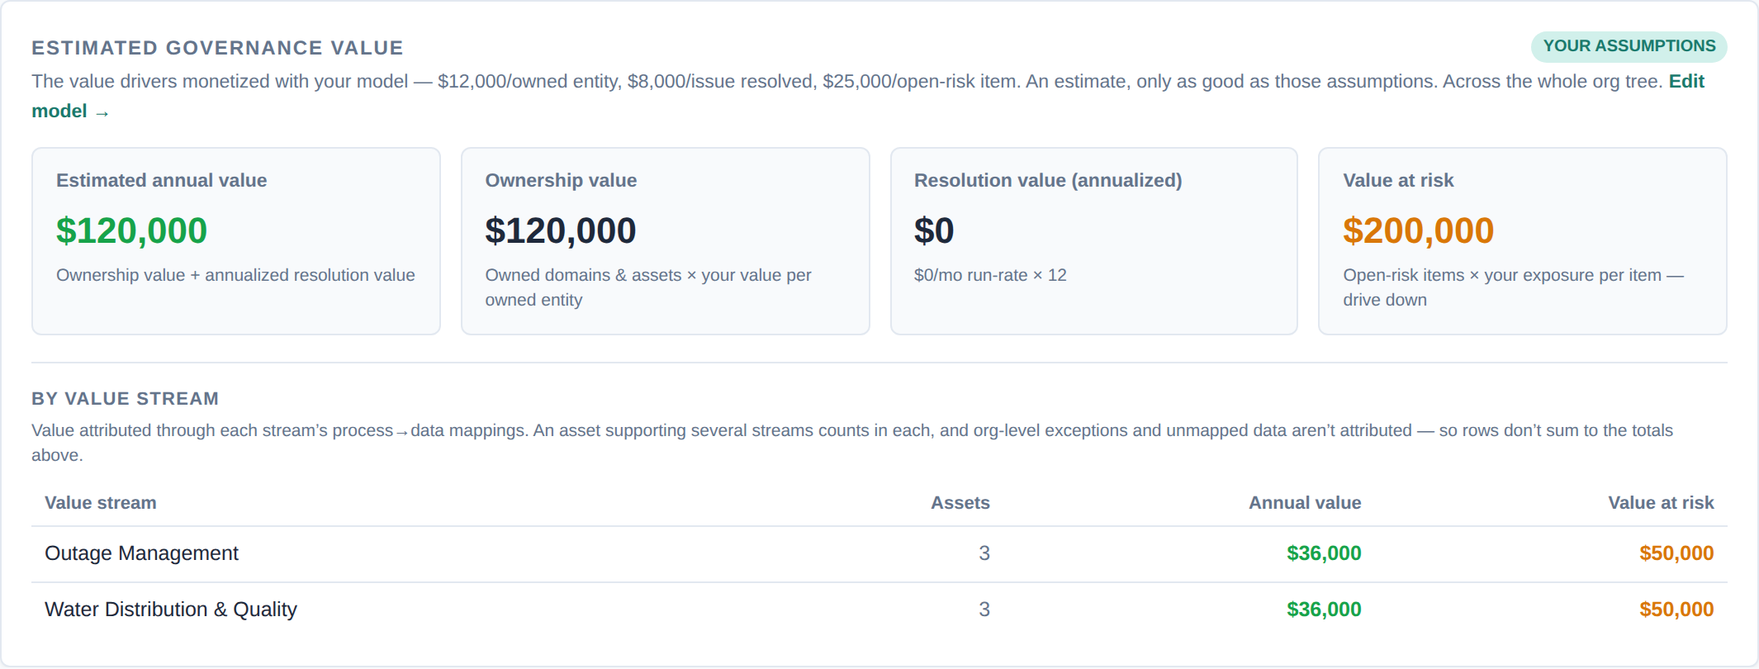
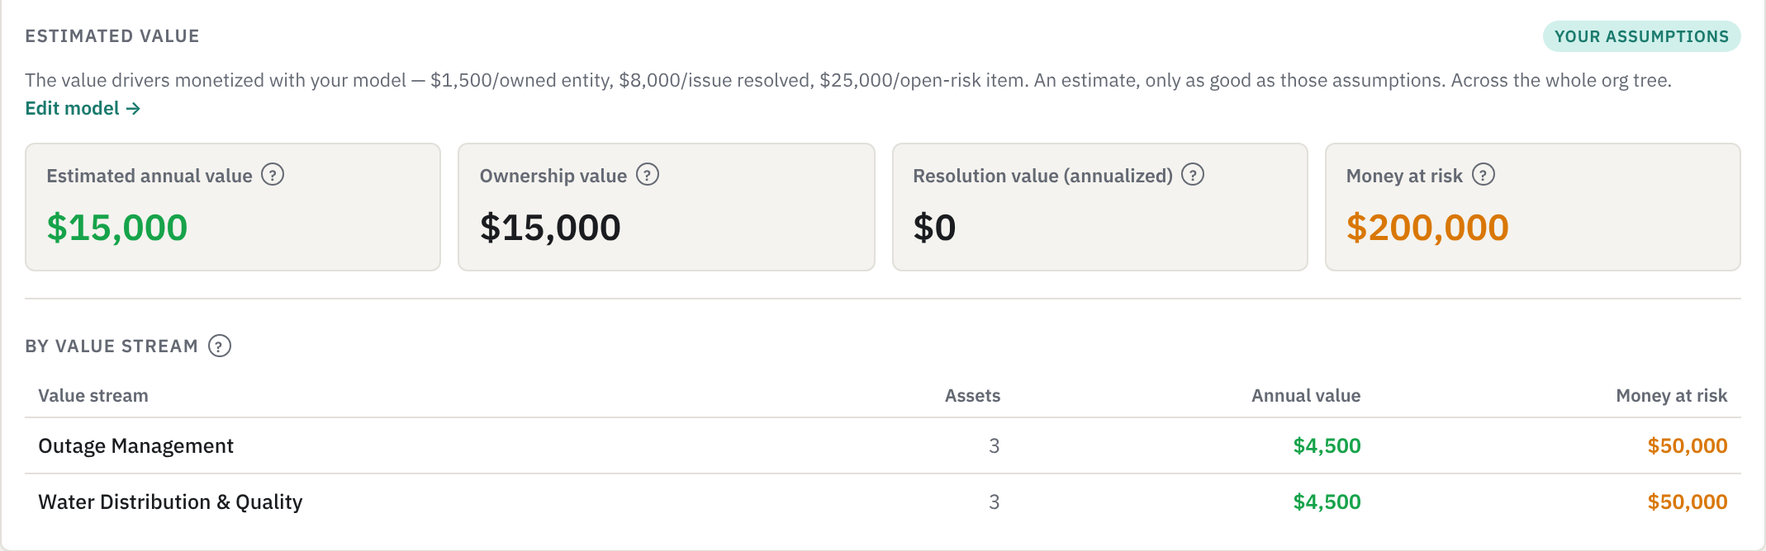
docs: refresh screen prints and stale prose to current state
Pre-flight for an evaluation build: bring the docs, guides and in-app
help screen prints up to date with the current app.

Screen prints (packages/backend/src/docs/images/) — regenerated 7 that
had drifted, mostly from the sidebar restructure plus the Dashboard,
Settings and Council redesigns:
- dashboard-hero: greeting header + Program-health pulse strip + "Needs
  you" queue (was the old My Dashboard / Needs Attention / Tasks / Issues
  layout).
- settings-data-tab: the left nav-rail + index-row Data section (was the
  old four-tab bar).
- data-assets-list, process-catalog-tree, council-scorecard: current UI
  + current sidebar.
- scorecard-value-drivers / scorecard-value: the two ROI cards merged
  into one "Governance value" card; re-clipped each band, and the driver
  tile is now "Open risk items" (not "Value at risk").
Kept as-is: connectors-panel, connector-pairing, chat-panel (element
clips of unchanged components), and the three animated GIFs.

HELP.md prose realigned to the screen prints: rewrote the Dashboard
section for the board-A3 layout (greeting, Program health, Needs you,
Focus mode — the old customizable-section/Customize model is gone),
fixed the value-driver label, the estimated-value figures/label, the
Council captions, the Settings nav-rail description, and moved the
Scorecard-targets pointer to Governance → Foundation → Targets.

Doc-prose staleness (verified against code):
- SECURITY.md: 6-role list → 5 roles (EDITOR merged PROCESS_OWNER +
[…]

diff --git a/e2e/smoke.spec.ts b/e2e/smoke.spec.ts
@@ -83,7 +83,7 @@ test.describe('Procela smoke', () => {
   });
 
   test('every top-level page renders without errors', async ({ page }) => {
-    // Walking 23 routes serially can exceed the default 30s timeout
+    // Walking 25 routes serially can exceed the default 30s timeout
     // on a dev backend with accumulated state — each page's data
     // fetch takes longer when the persistence layer has more rows.
     // Give this test the room it needs; the per-page work is still

diff --git a/packages/backend/src/docs/HELP.md b/packages/backend/src/docs/HELP.md
@@ -39,30 +39,27 @@ Settings sits at the bottom of the sidebar. Help lives only in the top bar (next
 
 ## 3. Dashboard
 
-![The you-scoped Dashboard on the Tidewater Utilities fixture: a full-width "My Dashboard" row split into a "Needs Attention" triage queue (overdue tasks, critical issues) beside a 14-day "Schedule" look-ahead, with the half-width "Tasks" and "Issues" sections beneath — each list header carrying its open count and an inline weekly-trend sparkline.](images/dashboard-hero.png)
+![The you-scoped Dashboard for Susan Chen on the Tidewater Utilities fixture: a personal greeting header (role · org · date), a "Program health" pulse strip (Open gaps, Classified, Ownership coverage, Program maturity), then the "Needs you" action queue — the most urgent tasks and issues with All / Tasks / Issues tabs and an inline weekly-trend sparkline — beside a portfolio rail (next meeting, Portfolio Health).](images/dashboard-hero.png)
 
 The dashboard is personalized to your login — it shows *your* work and the health of the domains and assets *you* own or steward, not an org-wide rollup. You must have a People record with your email to see personalized data.
 
-Everything on the page is a customizable **section** (see Customize below). The default set, top to bottom:
+The page (redesign board A3) leads with a **personal greeting** (time of day + your first name) and a meta line of your role · active org · today's date. Three header actions sit on the right: **Run Wizard** (the one "do" action kept from the old quick-action bar — AI-gated), the **All / Governed** portfolio lens, and a **Focus** toggle. Top to bottom:
 
-- **My Dashboard** — your personal act-now view, a two-column row. **Needs Attention** is the triage queue — overdue tasks, critical issues, overdue policy reviews, and low-health domains you own — each capped, with a "+N more →" link when the queue runs long. **Schedule** is the 14-day look-ahead — calendar events plus upcoming task and review due dates on one time axis, bucketed **Today / This week / Later**. Every row links through to where it's handled.
-- **Tasks** — the top governance tasks assigned to you. The header shows the open count, an **overdue** chip when any are late, and an inline **weekly-trend sparkline** with a ▲/▼ delta (down is green — fewer open tasks is good), then a *View all* link into Governance Work (Tasks tab). This sparkline is the former standalone "Trends" card, folded into the list header — the card only restated these counts.
-- **Issues** — the top governance issues assigned to you, same shape as Tasks: open count, an inline weekly-trend sparkline, and a *View all* link into the Issues tab.
-- **Domains** — the data domains you own or steward, as a card grid; links to the Data Domains page.
-- **Portfolio Health** — the tier mix and health of the assets in the domains you own or steward: a **tier-mix donut** (Certified / Managed / Uncertified) beside a **health gauge**, coloured green / amber / red on the same 80 / 50 thresholds used everywhere else. The you-scoped replacement for the old org-wide Governance Posture widget.
-- **Coverage** — the mapping / governance / ownership share of *your* assets, so your own coverage gaps read at a glance.
+- **Program health** — an organization-wide pulse strip of four tiles: **Open gaps** (with a mapped / ungoverned / orphaned breakdown), **Classified** (share of assets with a sensitivity, against the target), **Ownership coverage** (share of domains + assets with a named owner), and **Program maturity** (the latest council-scorecard maturity score, or a prompt to capture the first assessment). An "Open council scorecard →" link sits beside it. This strip is org-wide; the lens below narrows only your portfolio.
+- **Needs you** — your ranked action queue in the main column: the most urgent tasks and issues you own, "most urgent first", with **All / Tasks / Issues** tabs, an inline **weekly-trend sparkline** with a ▲/▼ delta (down is green — fewer open items is good), and a per-row **Open / Start** button that jumps to where the item is handled.
+- **Domains you own or steward** — a main-column card grid of your data domains; links to the Data Domains page. (Hidden in Focus mode.)
+- **Ask Procela** — suggested questions into the AI assistant (AI-gated).
+- A right-hand **portfolio rail** (hidden in Focus mode): **Next meeting** (the next council meeting from the Calendar), **Portfolio Health** (a tier-mix donut + health gauge for the assets in the domains you own or steward, on the same 80 / 50 thresholds used everywhere), and **Coverage** (the mapping / governance / ownership share of *your* assets).
 
-The old org-wide widgets — the Overview KPI row, Governance Posture, org-wide Trends, Governance Gaps, Catalog Shape, Program Maturity, Skill Gaps, Recent Activity, and the Quick Actions bar — were dropped in favour of this you-scoped view. Those org-wide reads still live on their own pages (Insights → Enterprise View, Gap Detection, the Council page, and the Process ↔ Data Map). The one "do" action kept from the old Quick Actions bar is **Run Wizard**, now a primary pill in the page header (when AI features are on).
+The old org-wide widgets — the Overview KPI row, Governance Posture, Catalog Shape, Skill Gaps, Recent Activity, and the Quick Actions bar — were dropped in favour of this you-scoped view; those org-wide reads live on their own pages (Insights → Enterprise View, Gap Detection, the Council page, and the Process ↔ Data Map).
 
-**All / Governed lens** — when a governance program scope is defined (Governance → Foundation), the header toggle narrows the Portfolio Health, Coverage, and Domains sections to the domains and assets the program governs, with a "Governed scope · v{N} · changed {date}" note. With no scope defined it's a safe no-op showing everything you own or steward.
-
-Click **Customize** to control the layout. For each section you can reorder it (up / down arrows), set its width — **Half** (packs two sections side-by-side, so the page stays tight with less scrolling) or **Full** (its own row) — and show or hide it. The default opens on an importance order (your act-now items first, then Tasks | Issues, then Domains | Portfolio Health, then Coverage), and the lower sections default to Half so they pair two-up. Your layout is saved automatically per browser (scoped to your login); use **Reset to Default** to return to the shipped arrangement.
+**Focus mode** — the header toggle collapses the portfolio rail *and* the domains grid so the "Needs you" queue is the whole page, for a heads-down working view. **All / Governed lens** — when a governance program scope is defined (Governance → Foundation), the toggle narrows the portfolio sections (Portfolio Health, Coverage, Domains) to the domains and assets the program governs, with a "Governed scope · v{N} · changed {date}" note; with no scope defined it's a safe no-op showing everything you own or steward.
 
 ## 4. Processes
 
 ### Process Catalog
 
-![Process Catalog in its two-pane master-detail layout: a compact navigation tree on the left — filter pills (All levels / Active / Draft / Incomplete / Mine), level badges, and a per-row status dot plus required-fields completeness marker — with the selected node's record open in the detail pane on the right. Here the "Outage Triage" sub-process is selected, its detail showing an "Active, but 2 required fields are missing" banner above its fields and the rolled-up activity-flow board.](images/process-catalog-tree.png)
+![Process Catalog in its two-pane master-detail layout: a compact navigation tree on the left — filter pills (All levels / Active / Draft / Incomplete / Mine), level-count chips, and a per-row status dot plus required-fields completeness marker — with the selected node's record open in the detail pane on the right. Here the "Outage Management" value stream is selected, its detail showing an "All 6 required fields complete" banner above its Purpose and Owner fields; a "Needs attention" summary and a Legend sit under the tree.](images/process-catalog-tree.png)
 
 - Hierarchical process catalog: Value Stream → Process → Activity (with optional Sub-Process and Task levels for detail).
 - Two-pane master-detail layout. A compact **navigation tree on the left** lists the hierarchy — each row shows a level badge, the name + code, a status dot, and a required-fields completeness read-out (`✓` when complete, `N/M` otherwise, an amber ⚠ when a node is Active but still incomplete). **Click a row to open its record in the detail pane on the right**, where all of its fields, roll-up panels, and the status / actions bar live. Drag a row by its handle to reorder or re-parent. The left nav stays clean (badge, name, status, completeness); everything you *do* to a node happens in the detail pane.
@@ -124,7 +121,7 @@ The single home for every activity ↔ target link in the catalog, at **Insights
 
 ### Data Assets
 
-![Data Assets list showing several rows with governance-tier badges (Bronze / Silver / Gold), health scores, and at least one row carrying a green "Synced N min ago" chip next to its name so the connector-sourced freshness signal is visible.](images/data-assets-list.png)
+![Data Assets registry: a Data Domains tree on the left, a "Needs attention" card row (Unmapped, No owner, Untrusted, No domain, Sensitivity not set), classification and origin filter pills, then the asset table with columns for System, Sensitivity, Mapping (Mapped / Unmapped), governance Tier (Managed / Untrusted), and Owner. Connector-sourced rows also show a green "Synced N min ago" freshness chip next to the name once a sync source is paired.](images/data-assets-list.png)
 
 - Register data assets in business terms. Each asset has a Trust Level (Untrusted / Managed / Trusted — DAMA mode calls these Uncertified / Managed / Certified).
 - Sidebar filter by **Data Classification** — the business *kind* of data: Master, Reference, Transactional, Analytical, Metadata (distinct from the SQL data type, and from the Sensitivity axis below).
@@ -399,19 +396,19 @@ Skills drive four cross-page workflows:
 
 - **The governance council's home at Insights → Review → Council.** One page now carries both the pre-meeting **briefing** (who sits on the council, when they next meet) and the monthly **scorecard** (the point-in-time division report card with saved snapshots) — the former Council Dashboard and Council Scorecard were merged, so there's one screen a council opens before *and* during a meeting. The old `/council-dashboard` and `/council-scorecard` links redirect here.
 
-![The merged Council page for Tidewater Utilities: a slim briefing bar (council roster · next meeting) across the top, then a "Scorecard" heading with a status pill above the four-measure per-division table (Tier-1 coverage, Classification, Open issues, Exceptions). Three divisions with nothing to assess show a neutral grey "No data" status; the enterprise rollup row shows "Behind". Page-header actions carry a Print icon, an All / Governed lens, a Versions ▾ menu, and Save snapshot.](images/council-scorecard.png)
+![The merged Council page for Tidewater Utilities: a slim briefing bar (council roster · next meeting) across the top, a "Verdict" card (here "Behind") beside a "Needs a decision" panel, then the "Scorecard" per-division table with columns for Domains (governed · context), Tier-1 coverage, Classification, Open issues, Exceptions, and Status. Three divisions with nothing to assess show a neutral grey "No data" status; the enterprise rollup row shows "Behind". Page-header actions carry a Print icon, an All entities / Governed only lens, a Saved snapshots ▾ menu, and Save snapshot.](images/council-scorecard.png)
 
 - **The briefing bar** across the top is a live summary composed from the surfaces that own each part, storing nothing of its own: **the council** — the roster and seats (Chair, Vice-chair, Secretary, Member, Advisor) pulled from the governance group, with a Manage → link into Governance → Groups; and **next meeting** — the next scheduled council meeting, how many days away, its cadence, and the expected attendees, from the Calendar.
 - **The four measures are auto-derived from live data:** Tier-1 coverage (share of Tier-1 domains with a named owner), Classification (share of assets with a sensitivity classification), Open issues over 30 days, and Exceptions past expiry. Each division's row is computed over its own subtree; the **Enterprise** row is a true rollup — computed across the parent's whole subtree, not an average of the divisions. Status per row (On track / Behind / At risk) is derived from the measures against their targets; a division with nothing to assess yet — no governed domains, no classified assets, and no open issues or exceptions — reads a neutral **No data** rather than being flagged Behind.
-- **Targets are configurable per tenant.** The four thresholds — coverage %, classification %, max aged open issues, max past-expiry exceptions, and the open-issue age in days — ship with sensible defaults (80 / 70 / 0 / 0 / 30) and can be tuned by an org admin under **Settings → Data → Council Scorecard targets**. A change re-derives the live scorecard on its next load; already-saved snapshots keep the targets they were frozen with. Set on a company org, the bar applies to its divisions.
+- **Targets are configurable per tenant.** The four thresholds — coverage %, classification %, max aged open issues, max past-expiry exceptions, and the open-issue age in days — ship with sensible defaults (80 / 70 / 0 / 0 / 30) and can be tuned by an org admin under **Governance → Foundation → Targets**. A change re-derives the live scorecard on its next load; already-saved snapshots keep the targets they were frozen with. Set on a company org, the bar applies to its divisions.
 - **All / Governed lens.** When a governance program scope is defined (Governance → Foundation), the header toggle narrows every measure to the entities the program governs — so the scorecard reads against *what you committed to govern*, not the whole org tree. A "Governed scope · v{N} · changed {date}" note shows the basis, and a snapshot saved under the Governed lens stores its governed numbers stamped with the scope version, so two snapshots can be compared apples-to-apples even if the scope changed between them. With no scope defined the lens is a safe no-op.
-- **Governance value drivers (leading indicators).** Below the measure table, a **Governance value drivers** panel shows the un-fakeable signals that the program is paying off — measured straight from your catalog, with *no assumed dollar figures*: **Ownership coverage** (share of in-scope domains + assets with a named owner), **Value at risk** (a count to drive down — past-expiry exceptions + unowned Tier-1 domains + unclassified assets), **Resolved (30 days)**, and **Avg days to resolve**. They respect the active All / Governed lens.
+- **Governance value drivers (leading indicators).** Under a **Governance value** card, a **Value drivers** band shows the un-fakeable signals that the program is paying off — measured straight from your catalog, with *no assumed dollar figures*: **Ownership coverage** (share of in-scope domains + assets with a named owner), **Open risk items** (a count to drive down — past-expiry exceptions + unowned Tier-1 domains + unclassified assets), **Resolved (30 days)**, and **Avg days to resolve**. They respect the active All / Governed lens.
 
-![Governance value drivers panel: a LEADING INDICATORS pill and four tiles — Ownership coverage 67% (10/15 domains & assets have a named owner), Value at risk 8, Resolved (30 days) 0, and Avg days to resolve (no resolved issues yet) — under a note that these are measured from the catalog with no assumed dollar figures.](images/scorecard-value-drivers.png)
-- **Estimated governance value — your dollar model.** Set a value model on **Governance → Foundation → Value model** (what an owned entity, a resolved issue, and an open-risk item are worth to you, in your currency) and the scorecard monetizes the drivers into an **Estimated annual value**, **Ownership value**, **Resolution value (annualized)**, and **Value at risk** — each tile stamped *your assumptions*. Procela invents no figures: until a model is set, the card shows a prompt to configure one rather than a fabricated number. Annual value = owned entities × value-per-entity + issues resolved in the last 30 days × value-per-issue × 12; value at risk = open-risk items × exposure-per-item, shown separately as exposure to work down.
+![The Value drivers band of the Governance value card: a LEADING INDICATORS pill and four tiles — Ownership coverage 67% (10/15 domains & assets have a named owner), Open risk items 8, Resolved (30 days) 0, and Avg days to resolve (no resolved issues yet) — measured from the catalog with no assumed dollar figures.](images/scorecard-value-drivers.png)
+- **Estimated governance value — your dollar model.** Set a value model on **Governance → Foundation → Value model** (what an owned entity, a resolved issue, and an open-risk item are worth to you, in your currency) and the scorecard monetizes the drivers into an **Estimated annual value**, **Ownership value**, **Resolution value (annualized)**, and **Money at risk** — each tile stamped *your assumptions*. Procela invents no figures: until a model is set, the card shows a prompt to configure one rather than a fabricated number. Annual value = owned entities × value-per-entity + issues resolved in the last 30 days × value-per-issue × 12; value at risk = open-risk items × exposure-per-item, shown separately as exposure to work down.
 - **By value stream.** With a model set, the estimated-value card also breaks the value down **per value stream** — attributed through each stream's process→data mappings, so a leader sees which streams' data is banking value vs. carrying risk. An asset supporting several streams counts in each, and org-level exceptions and unmapped data aren't attributed, so the rows deliberately don't sum to the totals above (the panel says so).
 
-![Estimated governance value card stamped YOUR ASSUMPTIONS: four tiles — Estimated annual value $120,000, Ownership value $120,000, Resolution value (annualized) $0, Value at risk $200,000 — above a By value stream table attributing value to Outage Management and Water Distribution & Quality (3 assets each, $36,000 annual value, $50,000 value at risk).](images/scorecard-value.png)
+![The Estimated value band stamped YOUR ASSUMPTIONS: four tiles — Estimated annual value $15,000, Ownership value $15,000, Resolution value (annualized) $0, Money at risk $200,000 — above a By value stream table attributing value to Outage Management and Water Distribution & Quality (3 assets each, $4,500 annual value, $50,000 money at risk).](images/scorecard-value.png)
 - **Maturity trend & what needs a decision.** Below the value story sit two more briefing panels carried over from the old Council Dashboard: a **Maturity trend** — an inline sparkline of the overall governance-maturity score over time plus the latest per-dimension scores, so you can see whether things are trending up — and **Needs a decision**, the auto-derived escalations for this period (each drilling back to where it's fixed) with the editable **Council note** folded in beside them.
 - **Two narrative sections are auto-drafted:** "What moved this month" from the last 30 days of governance activity (audit log), and the "For the council" / Council note from current risk facts (Tier-1 domains without an owner, exceptions past expiry, unclassified assets). Both carry an *auto-derived* chip until edited.
 - **Edit & override (CDO / Data Governance Lead only).** Those two roles — or an org admin — can override any derived cell or the narrative. Overrides are per-cell: the machine value is preserved underneath and an overridden cell is marked, so the council always sees what was adjusted. A cell can be reset back to its derived value.
@@ -483,7 +480,7 @@ Procela can expose your governed catalog to external AI agents (Claude Desktop, 
 
 ### Reset everything — start over (super admins)
 
-Below the Backup & Restore card on the Settings page, super admins
+In the Settings → Data section, super admins
  see a Reset everything control that performs a true factory
  reset: every organization, person, process, data asset, system,
  mapping, governance record, comment, and audit-log entry is deleted.
@@ -492,7 +489,7 @@ Below the Backup & Restore card on the Settings page, super admins
  RESET; the panel also surfaces a one-click Export now
  shortcut so you can save a recovery backup before nuking anything.
 
-![Settings page on the Data tab, one of four tabs (General, Sign-in & Security, Integrations, Data). The Data tab opens with "Data classification regimes" (CUI, ITAR, Export-Controlled toggles) at the top, then "Compliance frameworks" (the org-editable list — SOX, HIPAA, GDPR, … — that drives the selectable compliance tags on activities; add your own or reset to the built-in set), then "Council Scorecard targets" (editable thresholds for coverage, classification, open issues, exceptions, and open-issue age), then Backup & Restore, and finally Load demo data and Reset everything.](images/settings-data-tab.png)
+![Settings in its left nav-rail layout — General, Sign-in & Security, Integrations, Data, and Backup & Restore sections down the left rail, with **Data** selected. The Data section lists its panels as index rows that expand in place: "Data classification regimes" (CUI, ITAR, Export-Controlled toggles), "Compliance frameworks" (the org-editable list — SOX, HIPAA, GDPR, … — that drives the selectable compliance tags on activities; add your own or reset to the built-in set), "Load demo data", and "Reset everything".](images/settings-data-tab.png)
  A single ALL_DATA_RESET audit entry is written
  immediately after the wipe so the reset itself is traceable.
 

diff --git a/packages/backend/src/docs/images/README.md b/packages/backend/src/docs/images/README.md
@@ -10,16 +10,16 @@ If a file referenced by the markdown is missing, the guide renders a striped pla
 
 | Filename | Section | What to capture |
 |---|---|---|
-| `dashboard-hero.png` | 3. Dashboard | Dashboard page, top-third crop. Show the full-width **My Dashboard** row (the "Needs Attention" triage queue beside the 14-day "Schedule") and the half-width **Tasks** / **Issues** sections beneath — each list header carrying its open count and an inline weekly-trend sparkline. The dashboard is you-scoped now; there is no Overview KPI row to capture. Sign in as **Susan Chen** on the Tidewater Utilities fixture so the personal sections are populated. |
+| `dashboard-hero.png` | 3. Dashboard | Dashboard page, top crop. Sign in as **Susan Chen** on the Tidewater Utilities fixture so the personal sections populate. Show the greeting header (role · org · date), the **Program health** pulse strip (Open gaps / Classified / Ownership coverage / Program maturity), and the **Needs you** action queue (All / Tasks / Issues tabs + weekly-trend sparkline) beside the portfolio rail (next meeting, Portfolio Health). The dashboard is you-scoped; there is no Overview KPI row. |
 | `process-catalog-tree.png` | 4. Processes → Process Catalog | Process Catalog in its two-pane master-detail layout: the navigation tree (filter pills, per-row status dot + required-fields completeness) on the left with a node selected, and that node's record open in the detail pane on the right. |
 | `data-assets-list.png` | 5. Data → Data Assets | Data Assets list with several rows. **Must include at least one row carrying a green "Live" / "Synced N min ago" chip** next to the name (connector-sourced freshness). Governance-tier badges and health scores should be visible in the columns. |
 | `connectors-panel.png` | 6. Systems → On-prem connectors | Settings → On-prem connectors panel with at least one paired connector row. Status chip green (Online), systems column populated, "Add connector" button visible in the header. Empty-state also OK — it just tells a different story. |
 | `connector-pairing.png` | 6. Systems → On-prem connectors | The pairing-code modal after clicking "Add connector" and hitting Generate. The eight-digit code should dominate visually; the `docker run` hint underneath should be readable. |
 | `chat-panel.png` | 10. Cross-cutting → Ask AI assistant | AI assistant chat panel opened on the right. A grounded question ("Where are our data gaps?" is a good one) and an answer that includes at least one clickable entity citation and a green pill-shaped **Open** navigation chip at the end. |
-| `council-scorecard.png` | 8. → Council | The merged **Council** page (`/council`). Show the slim briefing bar (council roster · next meeting) across the top, then the "Scorecard" heading + status pill above the division table — with the neutral **No data** status on divisions with nothing to assess yet. Page-header actions (Print, All / Governed, Versions ▾, Save snapshot) should be visible. Tidewater Utilities fixture. |
-| `scorecard-value-drivers.png` | 8. → Council | The **Governance value drivers** card (ROI Phase 1) on the Council page — the four leading-indicator tiles (Ownership coverage, Value at risk, Resolved 30 days, Avg days to resolve) with the LEADING INDICATORS pill. Element-clip of the card, not the whole page. Tidewater Utilities fixture. |
-| `scorecard-value.png` | 8. → Council | The **Estimated governance value** card (ROI Phases 2–3) on the Council page — the four monetized tiles stamped YOUR ASSUMPTIONS above the By value stream attribution table. Requires a value model set on Governance → Foundation → Value model. Element-clip of the card. Tidewater Utilities fixture. |
-| `settings-data-tab.png` | Settings → Data tab | Settings on the **Data** tab. Lead with the **Data classification regimes** card (CUI / ITAR / Export-Controlled), then the **Compliance frameworks** card (the org-editable framework chips + "Add a framework" input + "Reset to built-in defaults"), then **Council Scorecard targets** (editable thresholds), then Backup & Restore, then Load demo data / Reset everything. Show the four-tab bar so the Data tab reads as selected. |
+| `council-scorecard.png` | 8. → Council | The merged **Council** page (`/council`). Show the slim briefing bar (council roster · next meeting) across the top, a **Verdict** card beside the **Needs a decision** panel, then the "Scorecard" division table (Domains · Tier-1 coverage · Classification · Open issues · Exceptions · Status) — with the neutral **No data** status on divisions with nothing to assess yet. Page-header actions (Print, All entities / Governed only, Saved snapshots ▾, Save snapshot) should be visible. Tidewater Utilities fixture. |
+| `scorecard-value-drivers.png` | 8. → Council | The **Value drivers** band of the Governance value card (ROI Phase 1) on the Council page — the four leading-indicator tiles (Ownership coverage, Open risk items, Resolved 30 days, Avg days to resolve) with the LEADING INDICATORS pill. Element-clip of the band, not the whole page. Tidewater Utilities fixture. |
+| `scorecard-value.png` | 8. → Council | The **Estimated value** band of the Governance value card (ROI Phases 2–3) on the Council page — the four monetized tiles stamped YOUR ASSUMPTIONS (Estimated annual value, Ownership value, Resolution value, Money at risk) above the By value stream attribution table. Requires a value model set on Governance → Foundation → Value model. Element-clip of the band. Tidewater Utilities fixture. |
+| `settings-data-tab.png` | Settings → Data | Settings in its left **nav-rail** layout (General / Sign-in & Security / Integrations / Data / Backup & Restore), with **Data** selected. The Data section lists its panels as index rows: **Data classification regimes** (CUI / ITAR / Export-Controlled), **Compliance frameworks**, **Load demo data**, **Reset everything**. Note: Council Scorecard targets moved to Governance → Foundation → Targets, and Backup & Restore is now its own rail section. |
 
 ## Recommended shape
 

diff --git a/docs/DR_RUNBOOK.md b/docs/DR_RUNBOOK.md
@@ -62,10 +62,12 @@ aws rds restore-db-instance-from-db-snapshot \
   --db-snapshot-identifier 〈snapshot-id〉 --region 〈region〉
 ```
 
-> ⚠ `deploy/terraform/rds.tf` currently sets `skip_final_snapshot = true`
-> and `deletion_protection = false` (reference config). **Flip both for
-> prod** (§7) or a deleted instance leaves no final snapshot to restore
-> from.
+> `deploy/terraform/rds.tf` drives `deletion_protection`,
+> `skip_final_snapshot`, and `multi_az` from variables that **default to
+> the hardened posture** (`rds_deletion_protection = true`,
+> `rds_multi_az = true`; see `deploy/terraform/variables.tf`). They're on
+> for prod unless you explicitly disable them — e.g. in a throwaway dev
+> workspace.
 
 ### 1c. Repoint the app at the restored instance
 
@@ -178,9 +180,10 @@ their authenticator. Only rotate on actual key compromise, and when you
 do: schedule a re-enrollment window, notify users, then
 `put-secret-value` and redeploy. Users hit "re-enroll MFA" on next login.
 
-> Note: `MFA_ENCRYPTION_KEY` / `KMS_PROVIDER` are **not yet provisioned
-> in `deploy/terraform/secrets.tf`** — add them (§7) so this key is
-> managed like the others rather than set ad hoc.
+> Note: `MFA_ENCRYPTION_KEY` is **Terraform-generated and injected** —
+> `deploy/terraform/secrets.tf` provisions it (`random_password` +
+> Secrets Manager secret + version), so it's managed like the other
+> secrets rather than set ad hoc.
 
 ### 3e. After any rotation
 
@@ -256,11 +259,13 @@ DATABASE_URL=… npm run db:migrate-json -- --dry-run
 These make the procedures above actually work in a real incident. Track
 alongside `STATUS.md` (§ Go-live checklist):
 
-- [ ] `rds.tf`: `backup_retention_period > 0` (PITR), `deletion_protection = true`,
+- [x] `rds.tf`: `backup_retention_period > 0` (PITR), `deletion_protection = true`,
       `skip_final_snapshot = false`, `multi_az = true`, storage on a KMS CMK.
+      *(Default via `variables.tf` — `rds_deletion_protection` / `rds_multi_az`
+      default to `true`; disable only in a throwaway workspace.)*
 - [ ] Take a **manual snapshot before every prod `migrate deploy`**.
-- [ ] Add `MFA_ENCRYPTION_KEY` / `KMS_PROVIDER` to `secrets.tf` and wire
-      it into the ECS task `secrets` list.
+- [x] `MFA_ENCRYPTION_KEY` provisioned in `secrets.tf` (Terraform-generated)
+      and injected into the ECS task — no manual step.
 - [ ] Provision `REDIS_URL`, `SMTP_*` and the RS256 JWT keypair (checklist
       #7, #8, #9) — the app falls back / warns without them.
 - [ ] Rehearse this runbook against a staging restore at least once, and

diff --git a/docs/UI_CONSISTENCY_AUDIT.md b/docs/UI_CONSISTENCY_AUDIT.md
@@ -109,9 +109,11 @@ drift with edits.
 
 - **☐ E1 [MED] `ProcessDataMapPage`** fetches with no loading affordance —
   the SVG pops in. Add a skeleton/spinner branch.
-- **☐ E2 [MED] Loading-text vs `SkeletonRows`** — non-list surfaces
-  hand-roll a "Loading…" line with drifting copy (`...` vs `…`); no shared
-  `<Spinner>`. → introduce `<Spinner label>` and standardise wording.
+- **☑ E2 [MED] Loading-text vs `SkeletonRows`** — non-list surfaces
+  hand-rolled a "Loading…" line with drifting copy (`...` vs `…`) and no
+  shared spinner. The **`<Spinner label>` primitive has shipped**
+  (`components/Spinner.tsx`); adoption across the remaining hand-rolled
+  "Loading…" lines is the follow-on.
 - **☐ E3 [MED] `TruncatedText` gaps** — long free-text cells rendered raw
   (`MappingsPage` Notes, `DecisionRightsPage` description); `DataAssetsPage`
   reinvents the ellipsis+title inline. → `<TruncatedText>`.
@@ -156,6 +158,7 @@ drift with edits.
    the DataTable series).
 5. **`<Spinner>` primitive** + loading/`TruncatedText` cleanup.
 
-Two genuine *new-primitive* gaps the earlier series didn't cover: a
-**`Button`** and a **`Spinner`**. Everything else is *adoption* of
-primitives that already exist, or colour tokenisation.
+Two genuine *new-primitive* gaps the earlier series didn't cover — a
+**`Button`** and a **`Spinner`** — have since **both shipped**
+(`components/Button.tsx`, `components/Spinner.tsx`). Everything else is
+*adoption* of primitives that already exist, or colour tokenisation.

diff --git a/SECURITY.md b/SECURITY.md
@@ -106,9 +106,10 @@ Three layered controls sit in front of the credential verifier:
 
 ## Authorisation
 
-  - Role-based access control with six roles: `SUPER_ADMIN`,
-    `ORG_ADMIN`, `PROCESS_OWNER`, `DATA_STEWARD`, `CONTRIBUTOR`,
-    `VIEWER`.
+  - Role-based access control with five roles: `SUPER_ADMIN`,
+    `ORG_ADMIN`, `EDITOR`, `CONTRIBUTOR`, `VIEWER`. (`EDITOR` is the
+    merged former `PROCESS_OWNER` + `DATA_STEWARD`: write over the
+    process catalog and the data/system registry.)
   - **Per-org role overrides** — a Person can hold different roles
     in different orgs. Resolution at token-mint time prefers an
     org-specific entry over the person's default role.
@@ -217,6 +218,9 @@ backlog.
   - **Key derivation**: scrypt (N=16384, r=8, p=1) for the local
     AES master key.
   - **Audit chain**: SHA-256.
-  - **JWT signing**: HS256 with `JWT_SECRET`.
+  - **JWT signing**: RS256 (the default when the `JWT_PRIVATE_KEY` /
+    `JWT_PUBLIC_KEY` PEM keypair is set; the public key is published at
+    `/api/v1/auth/jwks.json`), falling back to HS256 with `JWT_SECRET`.
+    Production installs should use RS256.
   - **PKCE**: S256.
   - **TOTP**: SHA-1 HMAC, 30-second period, 6 digits (RFC 6238).

diff --git a/e2e/README.md b/e2e/README.md
@@ -2,7 +2,7 @@
 
 One short Playwright suite that catches full-stack regressions before
 they ship. It boots the whole dev stack (backend + frontend), drives
-Chromium through five top-level user flows, and exits non-zero on the
+Chromium through seven top-level user flows, and exits non-zero on the
 first JS error or failed assertion. Total runtime ~40 seconds.
 
 ## Run it
@@ -47,7 +47,7 @@ prefix means updating one place (`SMOKE_NAME_PREFIXES` in
 | Test | Validates |
 |---|---|
 | `Eleanor can sign in and lands on the dashboard` | Auth flow + Layout shell |
-| `every top-level page renders without errors` | 23 routes mount with zero JS errors |
+| `every top-level page renders without errors` | 25 routes mount with zero JS errors |
 | `creating a person through the API surfaces on the People page` | List page + active-org filter |
 | `assigning a CDO surfaces on the Governance Roles page` | DAMA assignment + table render |
 | `the assign-role form opens and lists the org's people` | PersonPicker integration |

diff --git a/docs/demo-seeding.md b/docs/demo-seeding.md
@@ -90,9 +90,9 @@ content differs — so a demo of any tenant lights up every page:
 - **9 data assets** — mixed Bronze/Silver/Gold, including **2 planted
   orphans** (`healthScore: 0`, unmapped) so Ask-AI orphan detection and
   gap views have something to find.
-- **15 process nodes** across **2 value streams**
-  (Value Stream → Process → Sub-Process → Activity) with flow
-  relationships, and **7 process↔data mappings**.
+- **16 process nodes** (the Utilities default — other industries seed
+  15) across **2 value streams** (Value Stream → Process → Sub-Process →
+  Activity) with flow relationships, and **7 process↔data mappings**.
 - **3 governance tasks, 1 ownership issue, 2 DQ rules** (one passing, one
   failing — the failing rule and the issue target the **same Bronze,
   business-critical asset** so the story stays coherent).

diff --git a/docs/STATUS.md b/docs/STATUS.md
@@ -436,8 +436,9 @@ not read yet); warehouse/object-store/API/spreadsheet DQ is simulated.
 
 ## GA tightening audit
 
-The field-level census for the first commercial release (63 models / ~653
-columns) is **closed — sections §A–§G are all done**: dead columns removed,
+The field-level census for the first commercial release (then 63 models /
+~653 columns; the schema has since grown to 71 models) is **closed —
+sections §A–§G are all done**: dead columns removed,
 redundant fields consolidated, mocked surfaces either finished or honestly
 labelled, and the Postgres persistence + secrets-at-rest work landed. A handful
 of fields were **deliberately kept/deferred** rather than removed (listed under

diff --git a/packages/backend/COVERAGE.md b/packages/backend/COVERAGE.md
@@ -1,8 +1,9 @@
 # Backend test coverage map
 
-A snapshot of where the 325 backend tests reach today, where they
-don't, and which gaps to fill first when someone has time. Generated
-with Node 22's built-in `--experimental-test-coverage`.
+A snapshot of where the backend tests (~1,500 across ~200 `*.test.ts`
+files) reach today, where they don't, and which gaps to fill first when
+someone has time. Generated with Node 22's built-in
+`--experimental-test-coverage`.
 
 ## Run it
 

diff --git a/docs/MCP_SERVER_DESIGN.md b/docs/MCP_SERVER_DESIGN.md
@@ -1,6 +1,6 @@
 # Procela MCP Server — Design & Threat Model
 
-**Status:** Draft / Proposed (not yet scheduled)
+**Status:** Shipped (v1 read tools + v2 write tools) — see the per-section "Status (shipped)" notes below and `docs/MCP_SERVER.md`
 **Audience:** Engineering, Security, Product/GTM
 **Scope of this doc:** the design and security model for exposing Procela's
 governed context to external AI agents over the Model Context Protocol (MCP).

diff --git a/docs/DATA_OWNERSHIP.md b/docs/DATA_OWNERSHIP.md
@@ -27,7 +27,7 @@ overwrites** the governance/ownership fields a human curates in the UI. A
 report that omits `columns[]` (an older agent) skips the column block
 entirely, so it can never wipe a hand-curated schema.
 
-Of the ~60 models in the Prisma schema, the agent path touches exactly
+Of the ~70 models in the Prisma schema, the agent path touches exactly
 **four tables**. Everything else is 100% UI / API.
 
 ---
